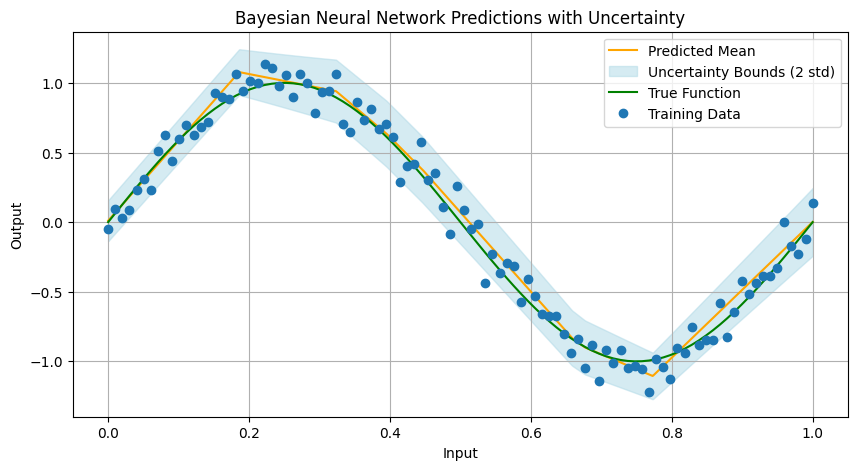
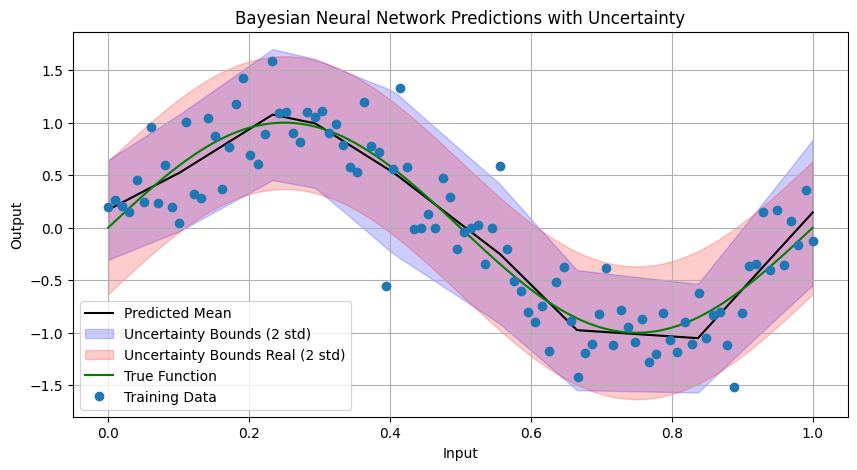
add better plotting for exercise 2 and fix error in data generation

diff --git a/exercise2.py b/exercise2.py
@@ -24,7 +24,8 @@ def generate_data(device="cpu", lower=0.0, upper=1.0, num_samples=100):
     # Generate synthetic training data with a sine wave and gaussian noise with variance of 0.1
     x = np.linspace(lower, upper, num_samples)
     sine_wave = np.sin(2 * np.pi * x)
-    noised_sine_wave = sine_wave + np.random.normal(0, 0.1, num_samples)
+    noised_sine_wave = sine_wave + np.random.normal(0, np.sqrt(0.1), num_samples)
+
     x = torch.tensor(x, dtype=torch.float32).unsqueeze(-1).to(device)
     noised_sine_wave = (
         torch.tensor(noised_sine_wave, dtype=torch.float32).unsqueeze(-1).to(device)
@@ -68,37 +69,53 @@ def main():
     plt.grid()
     plt.savefig("plots/exercise2_training_loss.png", bbox_inches="tight")
 
-    x_test, _, _ = generate_data(device, num_samples=1000)
+    x_test, _, y_clean_test = generate_data(device, num_samples=1000)
     model.eval()
     with torch.no_grad():
         mean_pred, var_pred = model(x_test)
 
-    mean_pred = mean_pred.squeeze().cpu().numpy()
-    var_pred = var_pred.squeeze().cpu().numpy()
-    x_train = x_train.squeeze().cpu().numpy()
-    y_train = y_train.squeeze().cpu().numpy()
-    x_test = x_test.squeeze().cpu().numpy()
+    if device == "cuda":
+        mean_pred = mean_pred.cpu()
+        var_pred = var_pred.cpu()
+        x_train = x_train.cpu()
+        y_train = y_train.cpu()
+        x_test = x_test.cpu()
+    mean_pred = mean_pred.squeeze().numpy()
+    var_pred = var_pred.squeeze().numpy()
+    x_train = x_train.squeeze().numpy()
+    y_train = y_train.squeeze().numpy()
+    x_test = x_test.squeeze().numpy()
     std_pred = np.sqrt(var_pred)
     lower_bound = mean_pred - 2 * std_pred
     upper_bound = mean_pred + 2 * std_pred
-
+    std_real = np.sqrt(0.1)  # The noise variance is 0.1, so the std is sqrt(0.1)
+    lower_bound_real = y_clean_test - 2 * std_real
+    upper_bound_real = y_clean_test + 2 * std_real
     # Plot the predictions with uncertainty bounds
     plt.figure(figsize=(10, 5))
     plt.plot(
         x_test,
         mean_pred,
         label="Predicted Mean",
-        color="orange",
+        color="black",
     )
     plt.fill_between(
         x_test,
         lower_bound,
         upper_bound,
-        color="lightblue",
-        alpha=0.5,
+        color="blue",
+        alpha=0.2,
         label="Uncertainty Bounds (2 std)",
     )
-    plt.plot(x_train, y_clean, label="True Function", color="green")
+    plt.fill_between(
+        x_test,
+        lower_bound_real,
+        upper_bound_real,
+        color="red",
+        alpha=0.2,
+        label="Uncertainty Bounds Real (2 std)",
+    )
+    plt.plot(x_test, y_clean_test, label="True Function", color="green")
     plt.plot(x_train, y_train, "o", label="Training Data")
     plt.title("Bayesian Neural Network Predictions with Uncertainty")
     plt.xlabel("Input")
@@ -113,27 +130,41 @@ def main():
     with torch.no_grad():
         mean_pred, var_pred = model(x_test)
 
-    mean_pred = mean_pred.squeeze().cpu().numpy()
-    var_pred = var_pred.squeeze().cpu().numpy()
-    x_test = x_test.squeeze().cpu().numpy()
+    if device == "cuda":
+        mean_pred = mean_pred.cpu()
+        var_pred = var_pred.cpu()
+        x_test = x_test.cpu()
+
+    mean_pred = mean_pred.squeeze().numpy()
+    var_pred = var_pred.squeeze().numpy()
+    x_test = x_test.squeeze().numpy()
     std_pred = np.sqrt(var_pred)
     lower_bound = mean_pred - 2 * std_pred
     upper_bound = mean_pred + 2 * std_pred
-
+    lower_bound_real = y_test_clean - 2 * std_real
+    upper_bound_real = y_test_clean + 2 * std_real
     # Plot the predictions with uncertainty bounds
     plt.figure(figsize=(10, 5))
     plt.plot(
         x_test,
         mean_pred,
         label="Predicted Mean",
-        color="orange",
+        color="black",
     )
     plt.fill_between(
         x_test,
         lower_bound,
         upper_bound,
-        color="lightblue",
-        alpha=0.5,
+        color="blue",
+        alpha=0.2,
+        label="Uncertainty Bounds (2 std)",
+    )
+    plt.fill_between(
+        x_test,
+        lower_bound_real,
+        upper_bound_real,
+        color="red",
+        alpha=0.2,
         label="Uncertainty Bounds (2 std)",
     )
     plt.plot(x_test, y_test_clean, label="True Function", color="green")
